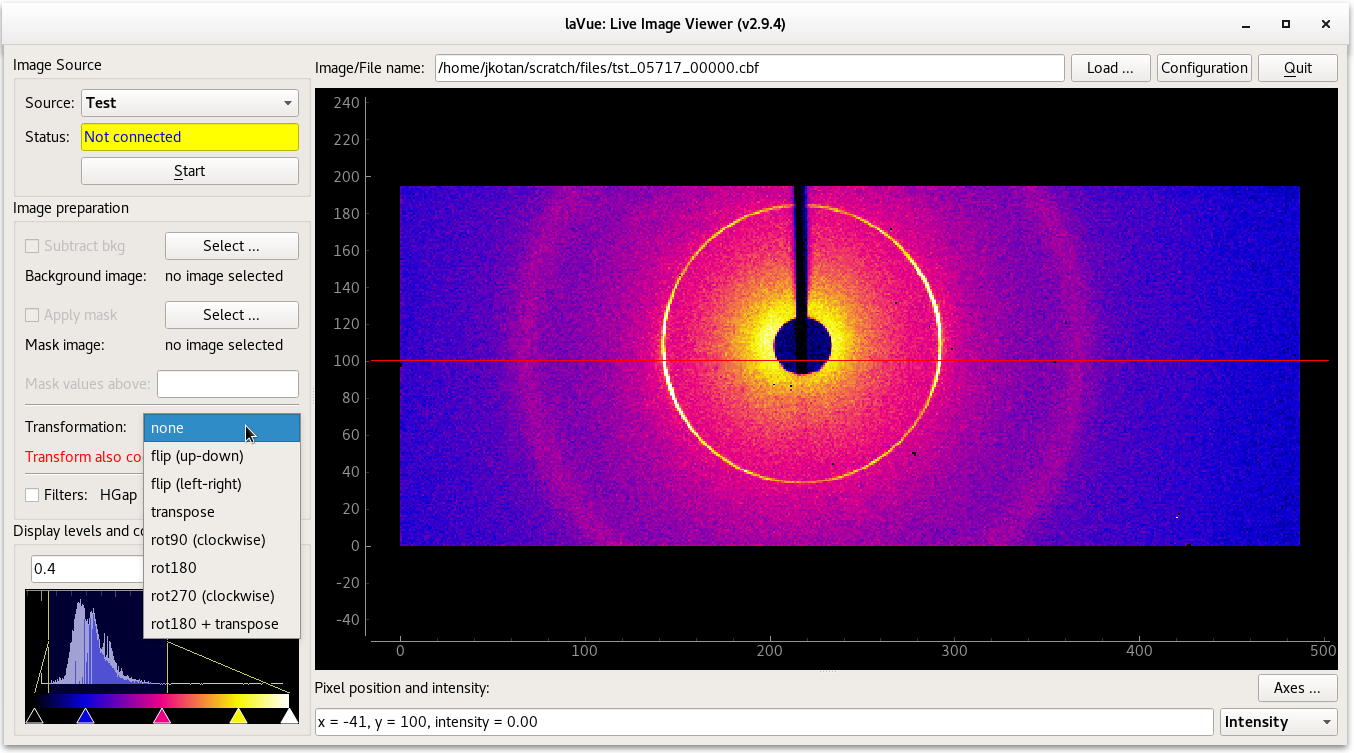
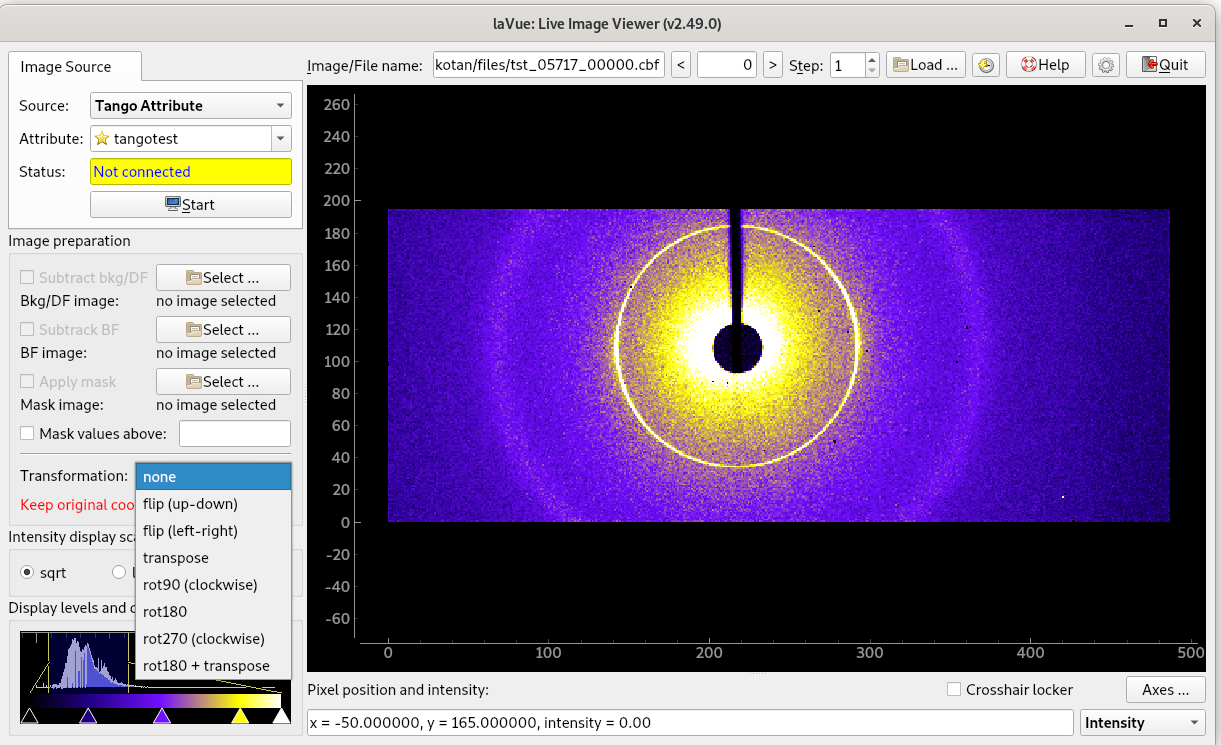
add hide/show for autofactors  (#391)
* add bright/dark field correction

* fix typo in signal name

* ajust widgets

* add --bright-field-file

* fix typo

* add options

* add hide/show for autofactors

* update widget

* update help

* update manpages

* update Start help

diff --git a/lavuelib/help/LaVue---Start_98091837.html b/lavuelib/help/LaVue---Start_98091837.html
@@ -38,7 +38,7 @@
         
                         </div>
                     <div id="main-content" class="wiki-content group">
-                    <h3 id="LaVue-Start-StarttheViewer">Start the Viewer</h3><p>To start LaVue</p><pre>  $ lavue</pre><p>for python 2.7 or</p><pre>  <span class="pl-s1">$ lavue3</span></pre><p>for python 3.</p><h3 id="LaVue-Start-StarttheViewerintheexpertmode">Start the Viewer in the expert mode</h3><p>Changing LaVue  settings is available in the expert mode, i.e.</p><pre>  $ lavue -m expert</pre><p>under an additional button: <code>Configuration</code>.</p><h3 id="LaVue-Start-Launchingoptions">Launching options</h3><p>To get all possible command-line parameters</p><pre>  <span class="pl-s1">$ lavue -h</span></pre><pre><span class="pl-s1"><br/><br/>usage: lavue [-h] [-v] [-m MODE] [-y STYLE] [-e STYLESHEET] [-j INSTANCE]<br/>             [-f IMAGEFILE] [-s SOURCE] [-c CONFIGURATION] [-z] [-o MBUFFER]<br/>             [--channel CHANNEL] [-b BKGFILE] [-k MASKFILE] [-p MASKHIGHVALUE]<br/>             [-t TRANSFORMATION] [-i SCALING] [-l LEVELS] [-q AUTOFACTOR]<br/>             [-g GRADIENT] [-r VIEWRANGE] [-x] [-u TOOL] [-a TANGODEVICE]<br/>             [-d DOORDEVICE] [-n ANALYSISDEVICE]<br/><br/>2d detector live image viewer<br/><br/>optional arguments:<br/>  -h, --help            show this help message and exit<br/>  -v, --version         program version<br/>  -m MODE, --mode MODE  interface mode, i.e. user, expert<br/>  -y STYLE, --style STYLE<br/>                        Qt style<br/>  -e STYLESHEET, --stylesheet STYLESHEET<br/>                        Qt stylesheet<br/>  </span>-j INSTANCE, --instance INSTANCE<br/>                        LaVue instance with separate configuration<br/>  --organization ORGANIZATION<br/>                        Organization name<br/>  --domain DOMAIN<br/>                        Organization domain name<br/>  --configuration-path CONFIGPATH<br/>                        Configuration path<br/><span class="pl-s1">  -f IMAGEFILE, --image-file IMAGEFILE<br/>                        image file name to show, e.g. /tmp/myfile2.nxs://entry/data/pilatus,,-1<br/>  -s SOURCE, --source SOURCE<br/>                        image source, i.e. hidra, http, tangoattr,<br/>                            tangoevents, tangofile, doocsprop, tineprop, <br/>                            epicspv, zmq, nxsfile, test<br/>                        multiple-source names is separated by semicolon ';'<br/>  -c CONFIGURATION, --configuration CONFIGURATION<br/>                        configuration strings for the image source separated by comma, e.g.<br/>                          hidra -&gt; '-c haspilatus300k.desy.de'<br/>                          http -&gt; '-c haso228eiger/1.5.0'<br/>                          tangoattr -&gt; '-c sys/tg_test/1/double_image_ro'<br/>                          tangoevents -&gt; '-c sys/lamccds/1/video_last_image'<br/>                          tangofile -&gt; '-c p00/plt/1/LastImageTaken,p00/plt/1/LastImagePath'<br/>                          zmq -&gt; '-c haso228:5535,topic'<br/>                          doocsprop -&gt; '-c TTF2.FEL/BLFW2.CAM/BL0M1.CAM/IMAGE_EXT'<br/>                          nxsfile -&gt; '-c /tmp/myfile.nxs://entry/data/pilatus'<br/>                                  or '-c /tmp/myfile2.nxs://entry/data/pilatus,0,34'<br/>                          tineprop -&gt; '-c '/HASYLAB/P00_LM00/Output/Frame'<br/>                          epicspv -&gt; '-c '00SIM0:cam1:,[640,480]'<br/>                       configuration for multiple-sources is separated by semicolon ';'<br/>  --offset OFFSET relative offset x,y[,TRANSFORMATION]</span><span class="pl-s1"><br/>                        where x,y are position of the first pixel for a particular image source<br/>                        while optional TRANSFORMATION can be:<br/>                          flip-up-down, flipud, fud, flip-left-right, fliplr, flr, transpose, t,<br/>                          rot90, r90, rot180, r180, r270, rot270, rot180+transpose, rot180t or r180t<br/>                        offset for multiple-sources is separated by semicolon ';'<br/>                        </span>e.g.<br/>                           ;200,300;,54;121,3<br/>                           200,300;100,<br/>                           200,300;100,200,t<br/>                           ;200,300,r45;,52;11,3,r180t<br/>  -w RANGEWINDOW, --range-window RANGEWINDOW<br/>                        range window slices, i.e. x1:x2,y1:y2 , e.g. -w 10:500,20:200<br/>                          where 'm' is '-'<span class="pl-s1"><br/>  --ds-factor DSFACTOR integer down-sampling factor<br/>  --ds-reduction DSREDUCTION<br/>                        down-sampling reduction function, i.e. 'max', 'min', 'mean' or 'sum'<br/>  -z, --filters apply image filters<br/>  -o MBUFFER, --memory-buffer MBUFFER<br/>                     size of memory buffer in frames<br/>  --channel CHANNEL<br/>                     default channel number or 'sum', 'mean', 'rgb' or RGB channels separated by comma e.g.'0,1,3'<br/>  -b BKGFILE, --bkg-file BKGFILE<br/>                        background file-name to load<br/>  -k MASKFILE, --mask-file MASKFILE<br/>                     background file-name to load<br/>  -p MASKHIGHVALUE, --mask-high-value MASKHIGHVALUE<br/>                        highest pixel value to show  <br/>  -t TRANSFORMATION, --transformation TRANSFORMATION<br/>                        image transformation, i.e.<br/>                          flip-up-down, flip-left-right, transpose,<br/>                          rot90, rot180, rot270, rot180+transpose<br/>  -i SCALING, --scaling SCALING<br/>                        intensity scaling, i.e. sqrt, linear, log<br/>  -l LEVELS, --levels LEVELS<br/>                        intensity display levels e.g. -l m20,20<br/>                          where 'm' is '-'<br/>  -q AUTOFACTOR, --factor AUTOFACTOR<br/>                        factor of the highest pick for automatic levels in %, e.g. -q 0.5<br/>  -g GRADIENT, --gradient GRADIENT<br/>                        color gradient, i.e. grey, highcontrast, thermal, flame,<br/>                          bipolar, spectrum, spectrumclip, greyclip, reversegrey, cyclic,<br/>                          yellowy, inverted<br/>  -r VIEWRANGE, --range VIEWRANGE<br/>                        viewbox range, i.e. xmin,ymin,xsize,ysize , e.g. -r 5.6,m60.7,543.2,444.11<br/>                            where 'm' is '-'<br/>  -x, --start           connect the image source<br/>  -u TOOL, --tool TOOL  utility tool, i.e. intensity, roi, movemotors, meshscan, maxima,<br/>                          linecut, projections, 1d-plot, angle/q, q+roi+proj, parameters, diffractogram<br/></span>  --tool-configuration TOOLCONFIG<br/>                          JSON dictionary with tool configuration, e.g. {&quot;rows_to_plot&quot;:&quot;0,1&quot;,&quot;buffer_size&quot;:512}<br/><span class="pl-s1">  -a TANGODEVICE, --tango-device TANGODEVICE<br/>                        tango device of LavueController to communicated with clients during the run<br/>  -d DOORDEVICE, --door DOORDEVICE<br/>                        door device to communicated with sardana during the run<br/>  -n </span>ANALYSISDEVICE, --analysis-device ANALYSISDEVICE <br/>                        tango analysis device of LambdaOnlineAnalysis to communicate with analysis clients during the run<br/>  --log LOG logging level, i.e. debug, info, warning, error, critical</pre><pre><span class="pl-s1"><br/></span></pre><h3 id="LaVue-Start-ChangeLog">ChangeLog</h3><p>Changes for a specific version of LaVue can be found at <a href="https://raw.githubusercontent.com/jkotan/lavue/develop/ChangeLog" class="external-link" rel="nofollow">ChangeLog</a></p>
+                    <h3 id="LaVue-Start-StarttheViewer">Start the Viewer</h3><p>To start LaVue</p><pre>  $ lavue</pre><p>for python 2.7 or</p><pre>  <span class="pl-s1">$ lavue3</span></pre><p>for python 3.</p><h3 id="LaVue-Start-StarttheViewerintheexpertmode">Start the Viewer in the expert mode</h3><p>Changing LaVue  settings is available in the expert mode, i.e.</p><pre>  $ lavue -m expert</pre><p>under an additional button: <code>Configuration</code>.</p><h3 id="LaVue-Start-Launchingoptions">Launching options</h3><p>To get all possible command-line parameters</p><pre>  <span class="pl-s1">$ lavue -h</span></pre><pre><span class="pl-s1"><br/><br/>usage: lavue [-h] [-v] [-m MODE] [-y STYLE] [-e STYLESHEET] [-j INSTANCE]<br/>             [-f IMAGEFILE] [-s SOURCE] [-c CONFIGURATION] [-z] [-o MBUFFER]<br/>             [--channel CHANNEL] [-b BKGFILE] [-k MASKFILE] [-p MASKHIGHVALUE]<br/>             [-t TRANSFORMATION] [-i SCALING] [-l LEVELS] [-q AUTOFACTOR]<br/>             [-g GRADIENT] [-r VIEWRANGE] [-x] [-u TOOL] [-a TANGODEVICE]<br/>             [-d DOORDEVICE] [-n ANALYSISDEVICE]<br/><br/>2d detector live image viewer<br/><br/>optional arguments:<br/>  -h, --help            show this help message and exit<br/>  -v, --version         program version<br/>  -m MODE, --mode MODE  interface mode, i.e. user, expert<br/>  -y STYLE, --style STYLE<br/>                        Qt style<br/>  -e STYLESHEET, --stylesheet STYLESHEET<br/>                        Qt stylesheet<br/>  </span>-j INSTANCE, --instance INSTANCE<br/>                        LaVue instance with separate configuration<br/>  --organization ORGANIZATION<br/>                        Organization name<br/>  --domain DOMAIN<br/>                        Organization domain name<br/>  --configuration-path CONFIGPATH<br/>                        Configuration path<br/><span class="pl-s1">  -f IMAGEFILE, --image-file IMAGEFILE<br/>                        image file name to show, e.g. /tmp/myfile2.nxs://entry/data/pilatus,,-1<br/>  -s SOURCE, --source SOURCE<br/>                        image source, i.e. hidra, http, tangoattr,<br/>                            tangoevents, tangofile, doocsprop, tineprop, <br/>                            epicspv, zmq, nxsfile, test<br/>                        multiple-source names is separated by semicolon ';'<br/>  -c CONFIGURATION, --configuration CONFIGURATION<br/>                        configuration strings for the image source separated by comma, e.g.<br/>                          hidra -&gt; '-c haspilatus300k.desy.de'<br/>                          http -&gt; '-c haso228eiger/1.5.0'<br/>                          tangoattr -&gt; '-c sys/tg_test/1/double_image_ro'<br/>                          tangoevents -&gt; '-c sys/lamccds/1/video_last_image'<br/>                          tangofile -&gt; '-c p00/plt/1/LastImageTaken,p00/plt/1/LastImagePath'<br/>                          zmq -&gt; '-c haso228:5535,topic'<br/>                          doocsprop -&gt; '-c TTF2.FEL/BLFW2.CAM/BL0M1.CAM/IMAGE_EXT'<br/>                          nxsfile -&gt; '-c /tmp/myfile.nxs://entry/data/pilatus'<br/>                                  or '-c /tmp/myfile2.nxs://entry/data/pilatus,0,34'<br/>                          tineprop -&gt; '-c '/HASYLAB/P00_LM00/Output/Frame'<br/>                          epicspv -&gt; '-c '00SIM0:cam1:,[640,480]'<br/>                       configuration for multiple-sources is separated by semicolon ';'<br/>  --offset OFFSET relative offset x,y[,TRANSFORMATION]</span><span class="pl-s1"><br/>                        where x,y are position of the first pixel for a particular image source<br/>                        while optional TRANSFORMATION can be:<br/>                          flip-up-down, flipud, fud, flip-left-right, fliplr, flr, transpose, t,<br/>                          rot90, r90, rot180, r180, r270, rot270, rot180+transpose, rot180t or r180t<br/>                        offset for multiple-sources is separated by semicolon ';'<br/>                        </span>e.g.<br/>                           ;200,300;,54;121,3<br/>                           200,300;100,<br/>                           200,300;100,200,t<br/>                           ;200,300,r45;,52;11,3,r180t<br/>  -w RANGEWINDOW, --range-window RANGEWINDOW<br/>                        range window slices, i.e. x1:x2,y1:y2 , e.g. -w 10:500,20:200<br/>                          where 'm' is '-'<span class="pl-s1"><br/>  --ds-factor DSFACTOR integer down-sampling factor<br/>  --ds-reduction DSREDUCTION<br/>                        down-sampling reduction function, i.e. 'max', 'min', 'mean' or 'sum'<br/>  -z, --filters apply image filters<br/>  -o MBUFFER, --memory-buffer MBUFFER<br/>                     size of memory buffer in frames<br/>  --channel CHANNEL<br/>                     default channel number or 'sum', 'mean', 'rgb' or RGB channels separated by comma e.g.'0,1,3'<br/>  -b BKGFILE, --bkg-file BKGFILE<br/>                        background file-name to load<br/>  </span>--bright-field-file BRIGHTFIELDFILE<br/>                        bright field file-name to load<br/><span class="pl-s1">  -k MASKFILE, --mask-file MASKFILE<br/>                     background file-name to load<br/>  -p MASKHIGHVALUE, --mask-high-value MASKHIGHVALUE<br/>                        highest pixel value to show  <br/>  -t TRANSFORMATION, --transformation TRANSFORMATION<br/>                        image transformation, i.e.<br/>                          flip-up-down, flip-left-right, transpose,<br/>                          rot90, rot180, rot270, rot180+transpose<br/>  -i SCALING, --scaling SCALING<br/>                        intensity scaling, i.e. sqrt, linear, log<br/>  -l LEVELS, --levels LEVELS<br/>                        intensity display levels e.g. -l m20,20<br/>                          where 'm' is '-'<br/>  -q AUTOFACTOR, --factor AUTOFACTOR<br/>                        factor of the highest pick for automatic levels in %, e.g. -q 0.5<br/>  -g GRADIENT, --gradient GRADIENT<br/>                        color gradient, i.e. grey, highcontrast, thermal, flame,<br/>                          bipolar, spectrum, spectrumclip, greyclip, reversegrey, cyclic,<br/>                          yellowy, inverted<br/>  -r VIEWRANGE, --range VIEWRANGE<br/>                        viewbox range, i.e. xmin,ymin,xsize,ysize , e.g. -r 5.6,m60.7,543.2,444.11<br/>                            where 'm' is '-'<br/>  -x, --start           connect the image source<br/>  -u TOOL, --tool TOOL  utility tool, i.e. intensity, roi, movemotors, meshscan, maxima,<br/>                          linecut, projections, 1d-plot, angle/q, q+roi+proj, parameters, diffractogram<br/></span>  --tool-configuration TOOLCONFIG<br/>                          JSON dictionary with tool configuration, e.g. {&quot;rows_to_plot&quot;:&quot;0,1&quot;,&quot;buffer_size&quot;:512}<br/><span class="pl-s1">  -a TANGODEVICE, --tango-device TANGODEVICE<br/>                        tango device of LavueController to communicated with clients during the run<br/>  -d DOORDEVICE, --door DOORDEVICE<br/>                        door device to communicated with sardana during the run<br/>  -n </span>ANALYSISDEVICE, --analysis-device ANALYSISDEVICE <br/>                        tango analysis device of LambdaOnlineAnalysis to communicate with analysis clients during the run<br/>  --log LOG logging level, i.e. debug, info, warning, error, critical</pre><pre><span class="pl-s1"><br/></span></pre><h3 id="LaVue-Start-ChangeLog">ChangeLog</h3><p>Changes for a specific version of LaVue can be found at <a href="https://raw.githubusercontent.com/jkotan/lavue/develop/ChangeLog" class="external-link" rel="nofollow">ChangeLog</a></p>
                     </div>
 
                     

diff --git a/lavuelib/help/LaVue---Image-Preparation_98091952.html b/lavuelib/help/LaVue---Image-Preparation_98091952.html
@@ -41,7 +41,7 @@
         
                         </div>
                     <div id="main-content" class="wiki-content group">
-                    <p>The <strong>Image Preparation</strong> group allows to perform basic operation before the image is displayed.</p><p><span class="confluence-embedded-file-wrapper confluence-embedded-manual-size"><img class="confluence-embedded-image"  src="attachments/98091952/132752880.png" data-image-src="attachments/98091952/132752880.png" data-unresolved-comment-count="0" data-linked-resource-id="132752880" data-linked-resource-version="1" data-linked-resource-type="attachment" data-linked-resource-default-alias="lavue_filters.png" data-base-url="https://confluence.desy.de" data-linked-resource-content-type="image/png" data-linked-resource-container-id="98091952" data-linked-resource-container-version="9"></span></p><ul><li><strong>Background image:</strong> subtract background from a file or one image from an image source</li><li><strong>Mask image:</strong> mask plotted image with respect to a file. <br/>Convention of zero mask pixels can be set in the configuration,  by default none-zero masks pixel to zero.</li><li><strong>Mask values above: </strong>mask image pixels which have intensity above the given value</li><li><strong>Transformation:</strong> all 8 possible. Whether axes are changing with transformations or not can be set in the configuration.</li></ul><p>Background image and mask image can be loaded from the file formats supported by <a href="https://pypi.org/project/fabio/" class="external-link" rel="nofollow">fabio</a> or a <a href="https://www.nexusformat.org/" class="external-link" rel="nofollow">NeXus file</a>.</p>
+                    <p>The <strong>Image Preparation</strong> group allows to perform basic operation before the image is displayed.</p><p><span class="confluence-embedded-file-wrapper confluence-embedded-manual-size"><img class="confluence-embedded-image"  src="attachments/98091952/132752880.png" data-image-src="attachments/98091952/132752880.png" data-unresolved-comment-count="0" data-linked-resource-id="132752880" data-linked-resource-version="1" data-linked-resource-type="attachment" data-linked-resource-default-alias="lavue_filters.png" data-base-url="https://confluence.desy.de" data-linked-resource-content-type="image/png" data-linked-resource-container-id="98091952" data-linked-resource-container-version="9"></span></p><ul><li><strong>Background/DarkField image:</strong> subtract background or dark field image from a file or from an image source</li><li><strong>BrightField image:</strong> apply bright field image correction from a file or from an image source, i.e. <code>(image - DF) / (BF - DF)</code></li><li><strong>Mask image:</strong> mask plotted image with respect to a file. <br/>Convention of zero mask pixels can be set in the configuration,  by default none-zero masks pixel to zero.</li><li><strong>Mask values above: </strong>mask image pixels which have intensity above the given value</li><li><strong>Transformation:</strong> all 8 possible. Whether axes are changing with transformations or not can be set in the configuration.</li></ul><p>Background image and mask image can be loaded from the file formats supported by <a href="https://pypi.org/project/fabio/" class="external-link" rel="nofollow">fabio</a> or a <a href="https://www.nexusformat.org/" class="external-link" rel="nofollow">NeXus file</a>.</p>
                     </div>
 
                                         </div><section><!-- <div class="pageSection group">

diff --git a/lavuelib/levelsGroupBox.py b/lavuelib/levelsGroupBox.py
@@ -229,6 +229,8 @@ class LevelsGroupBox(QtGui.QWidget):
             self.__ui.gradientComboBox.show()
             self.__ui.scalingLabel.show()
             self.__ui.autoLevelsCheckBox.show()
+            self.__ui.autofactorLineEdit.show()
+            self.__ui.autofactorLabel.show()
             self.__ui.maxDoubleSpinBox.show()
             self.__ui.maxLabel.show()
             self.__ui.minDoubleSpinBox.show()
@@ -240,6 +242,8 @@ class LevelsGroupBox(QtGui.QWidget):
 
             self.__ui.scalingLabel.hide()
             self.__ui.autoLevelsCheckBox.hide()
+            self.__ui.autofactorLineEdit.hide()
+            self.__ui.autofactorLabel.hide()
             self.__ui.maxDoubleSpinBox.hide()
             self.__ui.maxLabel.hide()
             self.__ui.minDoubleSpinBox.hide()
